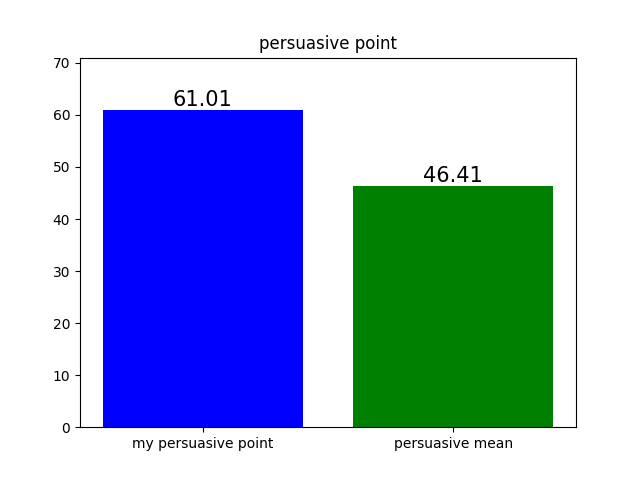
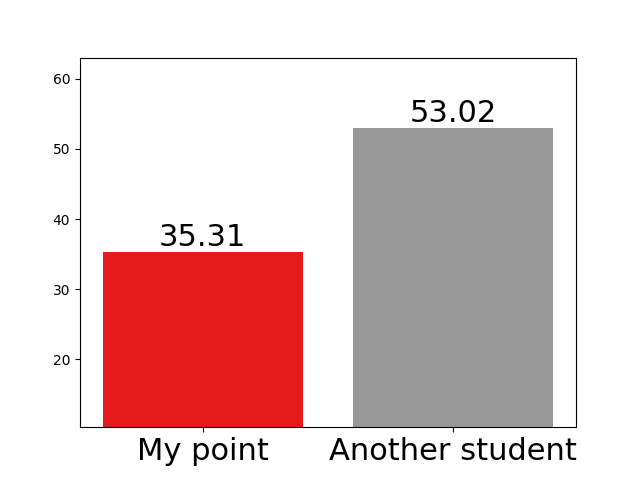
img changing and fixing bar

diff --git a/templates/result.html b/templates/result.html
@@ -71,8 +71,8 @@
             {
                 width: 260px;
                 height: 234px;
-                background-size: 260px 248px;
-                background-position: 2px -12px;
+                background-size: 306px 275px;
+                background-position: -18px -34px;
                 background-repeat: no-repeat;
             }
             .logicality-graph
@@ -81,15 +81,15 @@
             }
             .novelty-graph
             {
-                background-image: url(/static/images/logical.png);
+                background-image: url(/static/images/novelty.png);
             }
             .persuasivePower-graph
             {
-                background-image: url(/static/images/logical.png);
+                background-image: url(/static/images/persuasive.png);
             }
             .basis-graph
             {
-                background-image: url(/static/images/logical.png);
+                background-image: url(/static/images/reason.png);
             }
             .result-text
             {
@@ -169,13 +169,14 @@
             }
             .evaluation-title
             {
-                font-size: 32px;
+                font-size: 30px;
                 font-weight: 700;
             }
             .evaluation-element
             {
                 font-size: 30px;
-                font-weight: 700;   
+                font-weight: 700;
+                margin: 10px 0 0 0;   
             }
             .evaluation-ul
             {
@@ -196,26 +197,74 @@
             }
             .evaluation-text
             {
-                font-size: 48px;
+                font-size: 56px;
                 color: blue;
-                margin: 30px 0 0 0;
+                margin: 20px 0 0 0;
             }
             .evaluation-under
             {
+                margin: 14px 0 0 0;
                 font-size: 20px;
                 color: black;
             }
+            .persent
+            {
+                font-size: 34px;
+                color: blue;
+            }
+            .li
+            {
+                padding: 10px 0 0 0;
+            }
+            .progress
+            {
+                width: 800px;
+                height: 12px;
+                background-color: #f5f5f5;
+                border-radius: 30px;
+            }
+            .bar
+            {
+                height: 11px;
+                background-color: green;
+                border-radius: 30px;
+                margin: -1px 0 0 0;
+            }
+            .logical-bar
+            {
+                background-color: #4298b4;
+                width: 387.2px;
+            }
+            .novelty-bar
+            {
+                background-color: #e4ae3a;
+                width: 271.55px;
+            }
+            .persuasive-bar
+            {
+                background-color: #33a474;
+                width: 176.55px;
+            }
+            .reason-bar
+            {
+                background-color: #886199;
+                width: 271.575px;
+            }
         </style>
     </head>
-
-
     <body>
         <div class="wrapper">
             <div class="essay-title">
                 Checking the results of my <span class="essay-word">essay</span>
             </div>
             <div class="essay-content">
+                Lorem ipsum dolor sit amet consectetur adipisicing elit. A cum saepe fugit, doloremque explicabo delectus quas quaerat laudantium. Dolorem soluta vel qui beatae asperiores, nobis fugiat quisquam ea dolorum tempora?
                 Lorem ipsum dolor sit amet consectetur adipisicing elit. Esse, et nisi! Ad maiores accusamus placeat, eum modi dolorem numquam commodi. Aliquam cumque temporibus eligendi rem? Iusto quos eius quidem natus.
+                Lorem ipsum dolor sit amet consectetur, adipisicing elit. Esse vel atque sunt fuga magnam doloremque exercitationem? Laudantium illum blanditiis laboriosam neque vel, minima voluptas quam reprehenderit nostrum, id laborum quaerat?
+                Lorem, ipsum dolor sit amet consectetur adipisicing elit. Repellendus in ipsam tempora culpa, quis hic nesciunt odio! Cupiditate accusantium aliquam rem facere perferendis nesciunt voluptate harum, cum numquam ex cumque!
+                Lorem ipsum dolor sit amet consectetur adipisicing elit. Nemo doloribus, aperiam dignissimos distinctio iste inventore maxime debitis voluptates accusantium nam dolores sequi neque. Dolorem dicta atque obcaecati exercitationem soluta amet.
+                Lorem ipsum, dolor sit amet consectetur adipisicing elit. Commodi ipsa cupiditate voluptatem accusantium doloribus repudiandae velit, veritatis excepturi incidunt officia omnis ducimus, atque dicta sunt fugiat vel vitae doloremque in.
+
             </div>
             <div class="result-container">
                 <div class="result-content">
@@ -229,8 +278,8 @@
                             Below Points
                         </div>
                         <ul class="ul">
-                            <li>내 점수 <span class="blue">6.28점</span></li>
-                            <li>평균 <span class="green">41.78점</span></li>
+                            <li>내 점수 <span class="blue logical-blue">77.44</span>점</li>
+                            <li>평균 <span class="green logical-green">53.31</span>점</li>
                             <li>상위 73%</li>
                         </ul>
                     </div>
@@ -246,8 +295,8 @@
                             Below Points
                         </div>
                         <ul class="ul">
-                            <li>내 점수 <span class="blue">6.28점</span></li>
-                            <li>평균 <span class="green">41.78점</span></li>
+                            <li>내 점수 <span class="blue novelty-blue">54.31</span>점</li>
+                            <li>평균 <span class="green">50.98점</span></li>
                             <li>상위 73%</li>
                         </ul>
                     </div>
@@ -263,8 +312,8 @@
                             Below Points
                         </div>
                         <ul class="ul">
-                            <li>내 점수 <span class="blue">6.28점</span></li>
-                            <li>평균 <span class="green">41.78점</span></li>
+                            <li>내 점수 <span class="blue persuasive-blue">35.31</span>점</li>
+                            <li>평균 <span class="green">53.02점</span></li>
                             <li>상위 73%</li>
                         </ul>
                     </div>
@@ -280,8 +329,8 @@
                             Below Points
                         </div>
                         <ul class="ul">
-                            <li>내 점수 <span class="blue">6.28점</span></li>
-                            <li>평균 <span class="green">41.78점</span></li>
+                            <li>내 점수 <span class="blue reason-blue">64.18</span>점</li>
+                            <li>평균 <span class="green">59.04점</span></li>
                             <li>상위 73%</li>
                         </ul>
                     </div>
@@ -319,7 +368,7 @@
                     <div class="evaluation-text">
                         87점
                         <div class="evaluation-under">
-                            당신의 에세이는 상위 <span class="persent">8%</span>>
+                            당신의 에세이는 상위<span class="persent"> 8% </span>
                             전체적으로 글을 잘 쓰셨습니다.
 
                         </div>
@@ -327,17 +376,30 @@
                     <div class="evaluation-element">
                         요소별 평가
                         <ul class="evaluation-ul">
-                            <li>
-                                논리성 : 
+                            <li class="li logical-li">
+                                논리성 : 77.44점
+                                <div class="progress logical-progress">
+                                    <div class="bar logical-bar">
+                                    </div>
+                                </div>
                             </li>
-                            <li>
-                                풍부한 근거 :
+                            <li class="li novelty-li">
+                                참신성 : 54.18점
+                                <div class="progress novelty-progress">
+                                    <div class="bar novelty-bar">
+                                    </div>
                             </li>
-                            <li>
-                                설득력 :
+                            <li class="li persuasive-li">
+                                설득력 : 35.31점
+                                <div class="progress persuasive-progress">
+                                    <div class="bar persuasive-bar">
+                                    </div>
                             </li>
-                            <li>
-                                참신성 :
+                            <li class="li reason-li">
+                                풍부한 근거 : 54.31점
+                                <div class="progress reason-progress">
+                                    <div class="bar reason-bar">
+                                    </div>
                             </li>
                         </ul>
                     </div>
@@ -348,55 +410,68 @@
         <footer>
                 Made by AI Model : DaegonYu     |       Web Page : IlhanYu
         </footer>
+        <script>
+            let logicalBarPersent = document.querySelector(".logical-bar");
+            let logicalBlue = document.querySelector(".logical-blue");
+            let logicalBlueInnerHTML;
+            let noveltyBarPersent = document.querySelector(".novelty-bar");
+            let noveltyBlue = document.querySelector(".novelty-blue");
+            let noveltyBlueInnerHTML;
+            let persuasiveBarPersent = document.querySelector(".persuasive-bar");
+            let persuasiveBlue = document.querySelector(".persuasive-blue");
+            let persuasiveBlueInnerHTML;
+            let reasonBarPersent = document.querySelector(".reason-bar");
+            let reasonBlue = document.querySelector(".reason-blue");
+            let reasonBlueInnerHTML;
 
+            function barMove (event) {
+                logicalBlueInnerHTML = logicalBlue.innerHTML;
+                noveltyBlueInnerHTML = noveltyBlue.innerHTML;
+                persuasiveBlueInnerHTML = persuasiveBlue.innerHTML;
+                reasonBlueInnerHTML = reasonBlue.innerHTML;
 
-        <!-- <div>
-            <h2>에세이 결과 확인~!</h2>
-            <div style="border: 1px solid black;" cols="100"> 
-                {{ essay }} 
-            </div>
-        </div> -->
+                for(let i = 0; i <= logicalBlueInnerHTML * 8; i++) {
+                    console.log(logicalBlueInnerHTML);
+                    logicalBarPersent.style.width = `${i}px`; 
+                }
+                for(let i = 0; i <= noveltyBlueInnerHTML * 8; i++) {
+                    console.log(noveltyBlueInnerHTML);
+                    noveltyBarPersent.style.width = `${i}px`; 
+                }
+                for(let i = 0; i <= persuasiveBlueInnerHTML * 8; i++) {
+                    console.log(persuasiveBlueInnerHTML);
+                    persuasiveBarPersent.style.width = `${i}px`; 
+                }
+                for(let i = 0; i <=  reasonBlueInnerHTML * 8; i++) {
+                    console.log(reasonBlueInnerHTML);
+                    reasonBarPersent.style.width = `${i}px`; 
+                }
+            }
+    
+            barMove();
+    
+          /*  function move() {
+                if(i == 0) {
+                    elem = document.getElementsByClassName("bar");
+                    i = 1;
+                    let width = 1;
+                    let id = setInterval(frame, 10);
                     
-        <!-- <div style="width: 99%; bottom:100px; padding-top:20px">
-        
-            <div style="width:33%; float:left">
-                 {% if True %} 
-                 <img src="{{ url_for('static', filename="images/logical.png") }}" style="width:400px"><br> 
-                <img src="/flakAESHomepage/static/images/logical.png" alt="">
-                 {% endif %} 
-                <div>
-                    <h3>논리성 {{ point_list[0] }}점</h3>
-                    <h3>평균 {{ mean_list[0] }}점</h3>
-                    <h3>상위 {{ grade_list[0] }}%</h3>
-                </div>
-            </div>
-            
-            <div style="width:33%; float:left">
-                 {% if True %} 
-                <img src="{{ url_for('static', filename="images/novelty.png") }}" style="width:400px"><br>
-                {% endif %}
-                <div>
-                <h3>참신성 {{ point_list[1] }}점</h3>
-                <h3>평균 {{ mean_list[1] }}점</h3>
-                <h3>상위 {{ grade_list[1] }}%</h3>
-                </div>
-            </div>
-
-            <div style="width:34%; float:left">
-                {% if True %}
-                <img src="{{ url_for('static', filename="images/persuasive.png") }}" style="width:400px"><br>
-                {% endif %}
-                <div>
-                    <h3>설득력 {{ point_list[2] }}점</h3>
-                    <h3>평균 {{ mean_list[2] }}점</h3>
-                    <h3>상위 {{ grade_list[2] }}%</h3>
-                </div>
-            </div>
-        <div>
-
-        <div>
-            <h4> 위 자료의 표본은 초중고 에세이 약 1만4천개를 가져왔습니다.</h4> 
-            <h4> 출처 : AIHUB_에세이 글 평가 데이터 </h4>
-        </div> -->
+                    function frame() {
+                        if(width >= 100){
+                            clearInterval(id);
+                            i = 0;
+                        }  else {
+                            width++;
+                            elem.style.width = "100px"
+                        }
+                    }
+                }
+            }
+    
+            move();
+    
+            */
+        </script>
     </body>
 </html>
